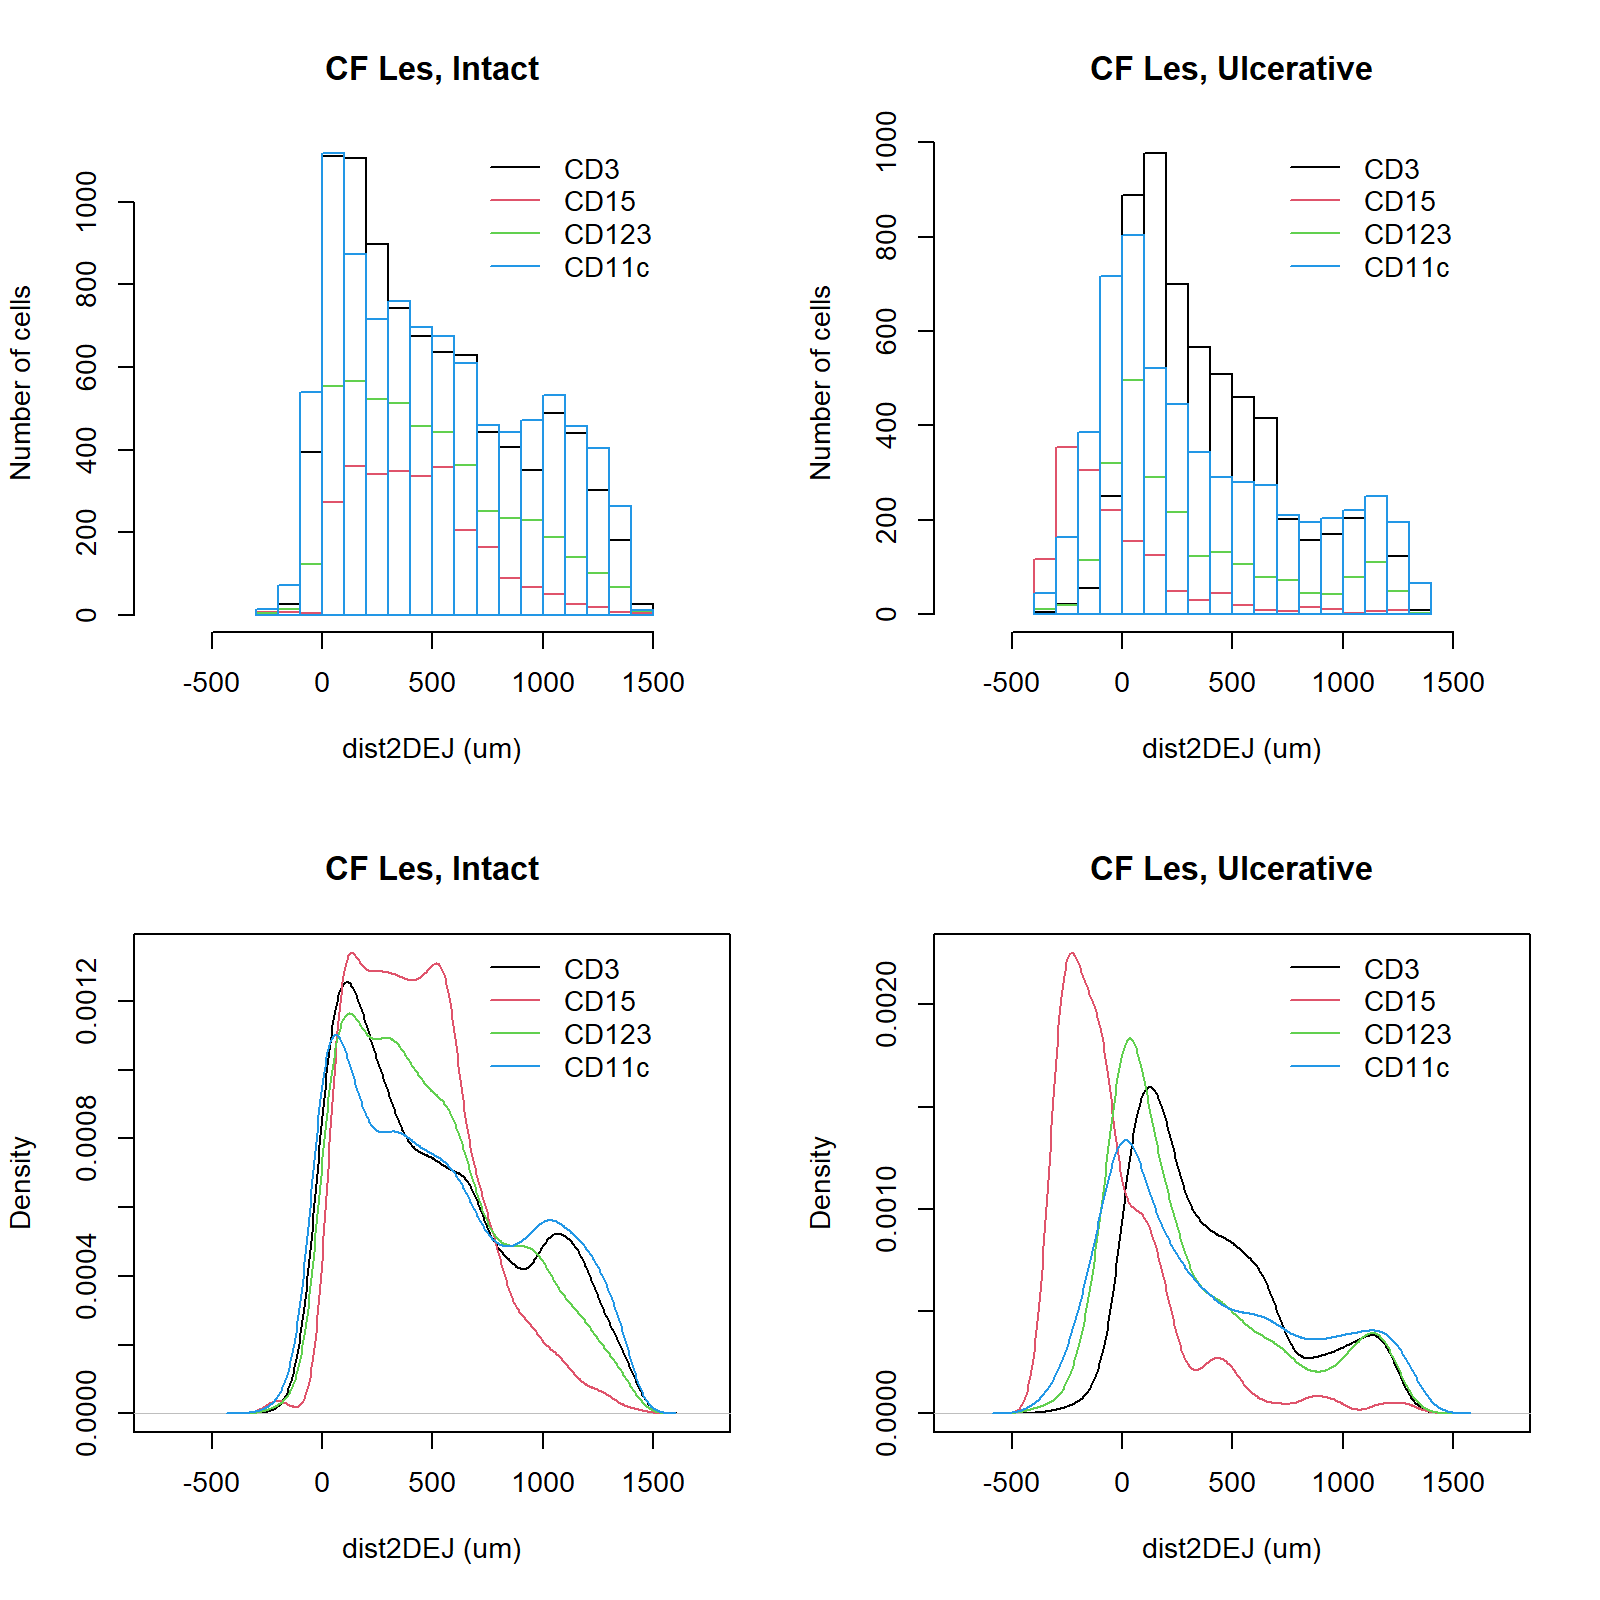
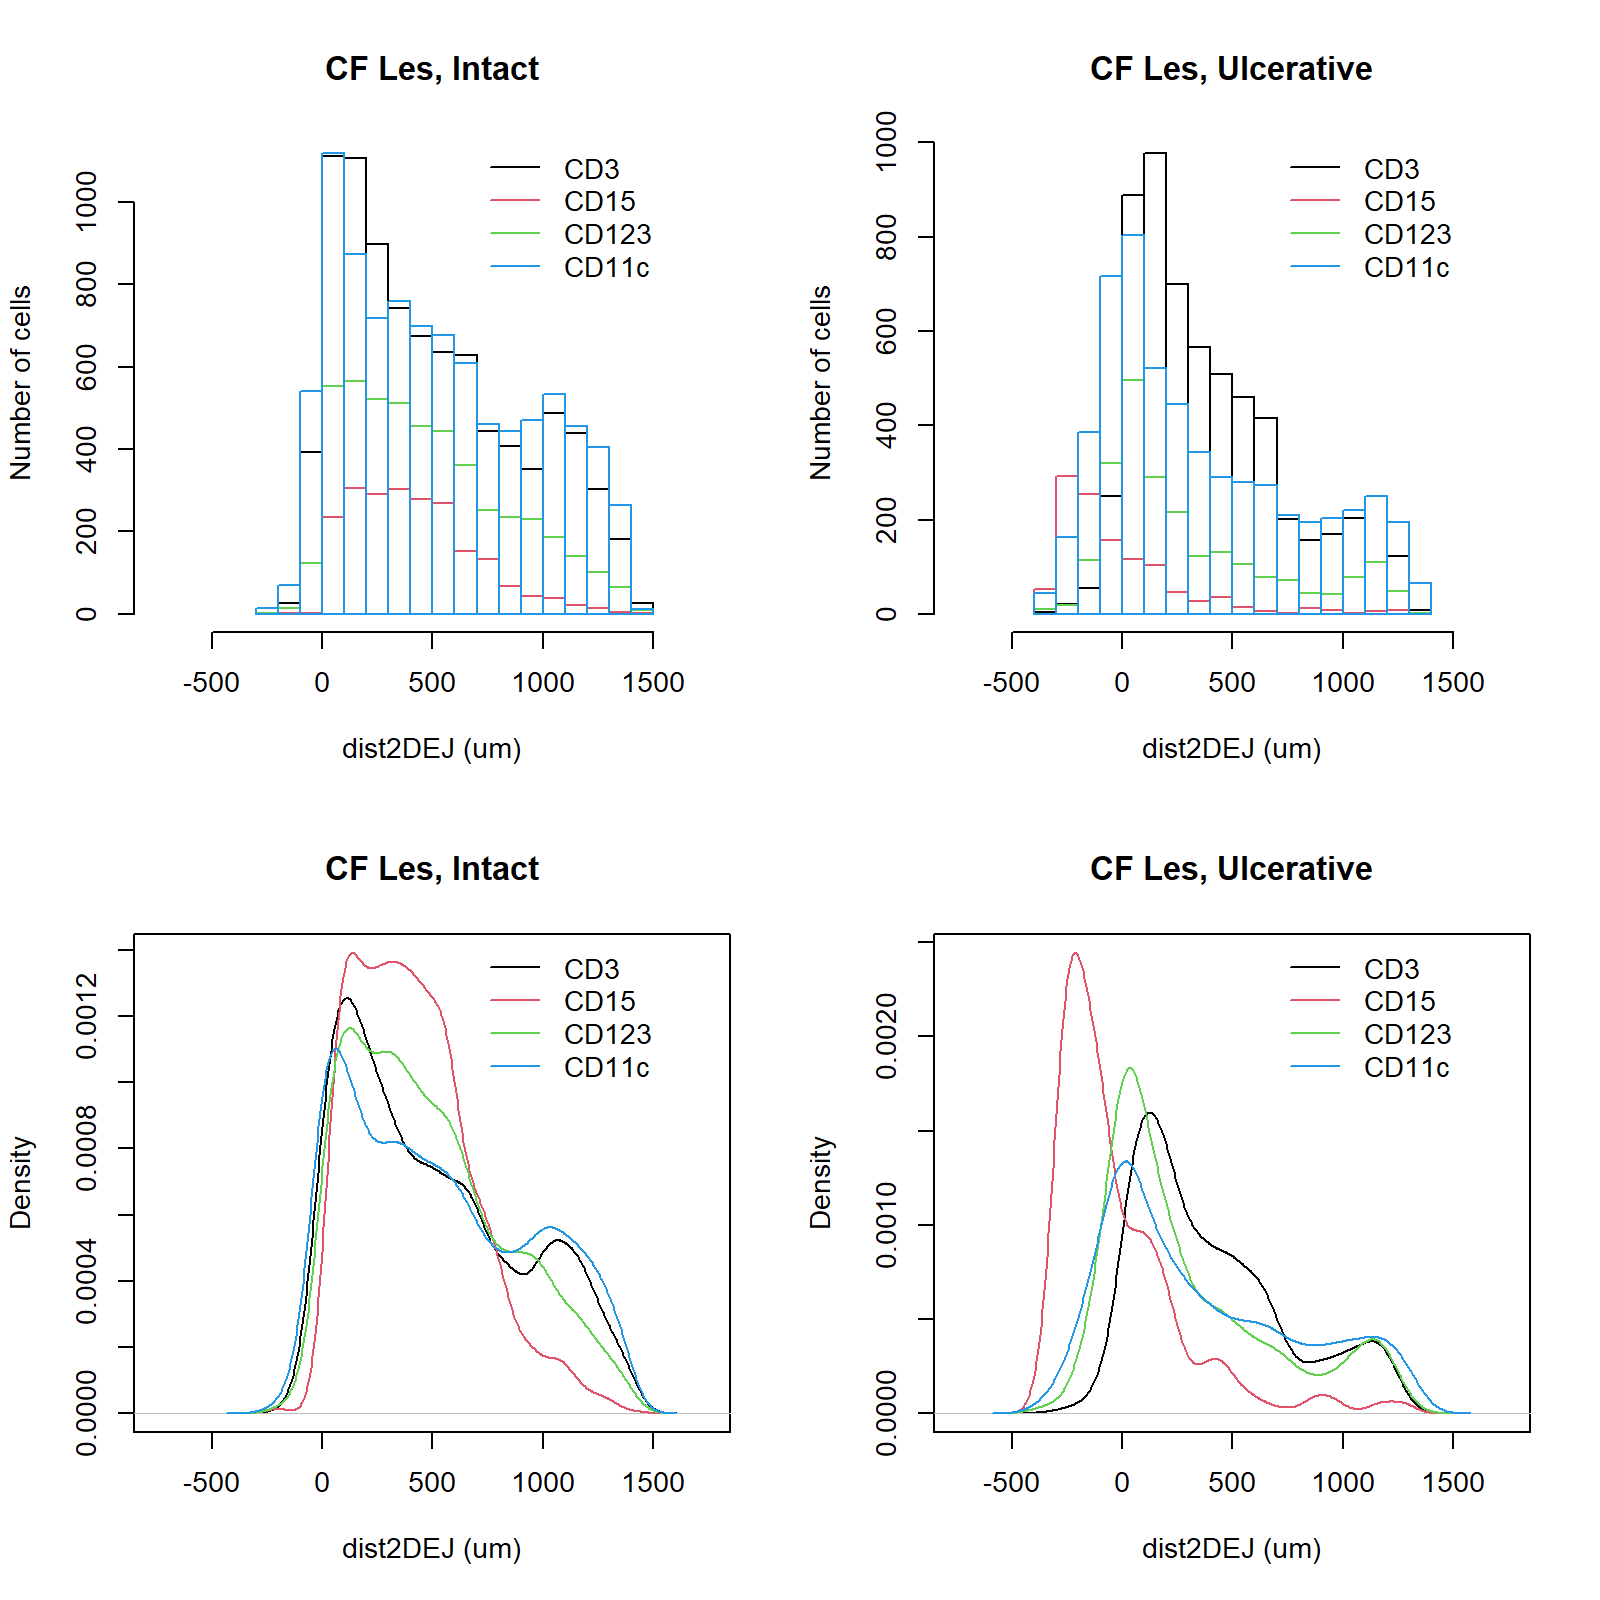
update CD15 with CD15 bkg removed (CF)

diff --git a/R/tables/CF_counts.tex b/R/tables/CF_counts.tex
@@ -11,7 +11,7 @@
              \multicolumn{1}{c}{} & \multicolumn{1}{c}{epi} & dermis & \multicolumn{1}{c}{epi} & \multicolumn{1}{c|}{dermis} & \multicolumn{1}{c}{epi} & dermis & \multicolumn{1}{c}{epi} & dermis  \\ 
              \hline
         CD3 & 422 & 8435 & 331 & 5629 & 976 & 4476 & 819 & 5574 \\ 
-  CD15 & 16 & 2644 & 995 & 480 & 37 & 1403 & 2462 & 475 \\ 
+  CD15 & 7 & 2154 & 756 & 391 & 16 & 1143 & 1871 & 387 \\ 
   CD123 & 139 & 4634 & 466 & 1840 & 321 & 2459 & 1153 & 1822 \\ 
   CD11c & 624 & 8498 & 1308 & 4299 & 1443 & 4509 & 3237 & 4257 \\ 
   area & 0.43 & 1.88 & 0.40 & 1.01 &    &    &    &    \\ 

diff --git a/R/tables/input/CF_counts.tex b/R/tables/input/CF_counts.tex
@@ -6,7 +6,7 @@
              \multicolumn{1}{c}{} & \multicolumn{1}{c}{epi} & dermis & \multicolumn{1}{c}{epi} & \multicolumn{1}{c|}{dermis} & \multicolumn{1}{c}{epi} & dermis & \multicolumn{1}{c}{epi} & dermis  \\ 
              \hline
         CD3 & 422 & 8435 & 331 & 5629 & 976 & 4476 & 819 & 5574 \\ 
-  CD15 & 16 & 2644 & 995 & 480 & 37 & 1403 & 2462 & 475 \\ 
+  CD15 & 7 & 2154 & 756 & 391 & 16 & 1143 & 1871 & 387 \\ 
   CD123 & 139 & 4634 & 466 & 1840 & 321 & 2459 & 1153 & 1822 \\ 
   CD11c & 624 & 8498 & 1308 & 4299 & 1443 & 4509 & 3237 & 4257 \\ 
   area & 0.43 & 1.88 & 0.40 & 1.01 &    &    &    &    \\ 

diff --git a/R/tables/input/DD_counts.tex b/R/tables/input/DD_counts.tex
@@ -1,4 +1,3 @@
-
 \begin{tabular}{lrrrr|rrrr}
    \hline
  
@@ -14,6 +13,3 @@
   area & 0.12 & 0.43 & 1.45 & 3.71 &    &    &    &    \\ 
    \hline
 \end{tabular}
-
-
-

diff --git a/README.md b/README.md
@@ -1,6 +1,6 @@
 # lesion_normal_comparison
 
--<object data="R/tables/CF_counts.pdf" type="application/pdf" width="700px" height="700px">
+<object data="R/tables/CF_counts.pdf" type="application/pdf" width="700px" height="700px">
     <embed src="report.pdf">
         <p>See report.pdf: <a href="report.pdf">Download PDF</a>.</p>
     </embed>
